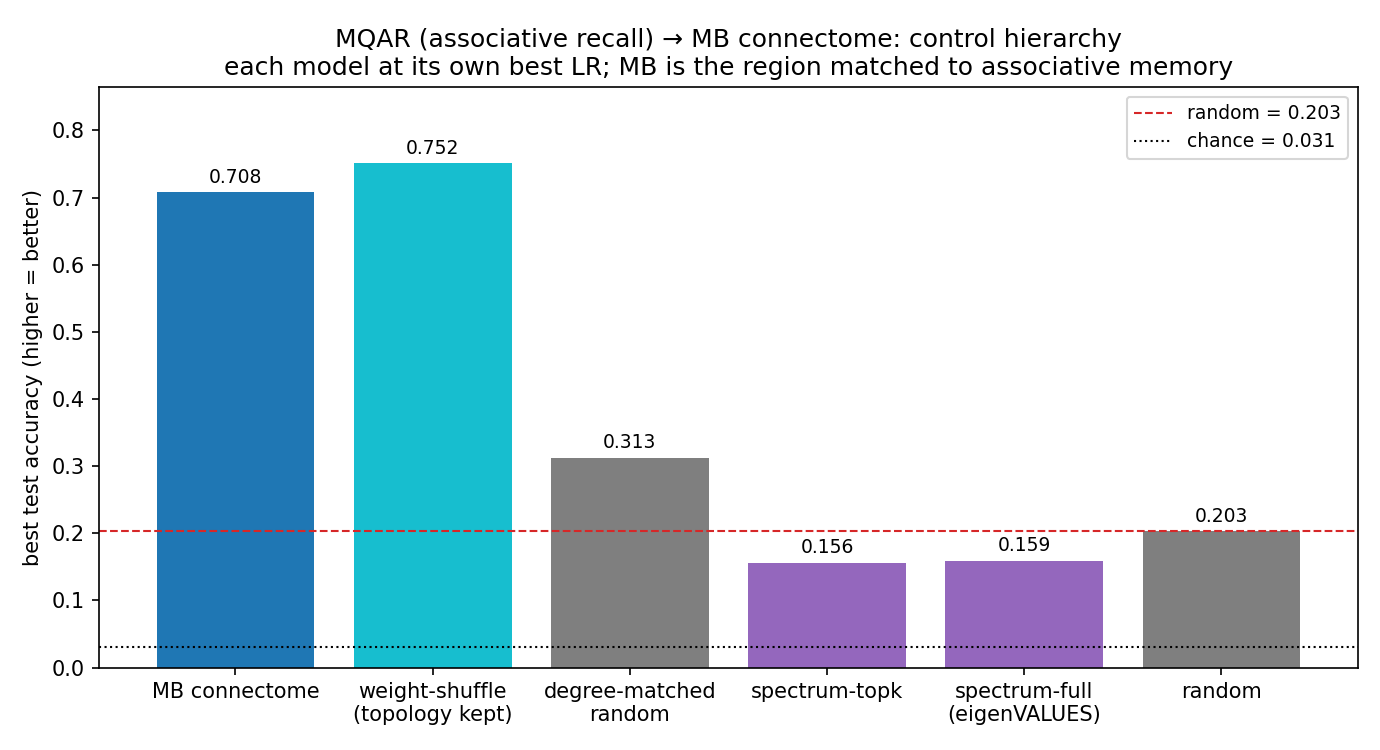
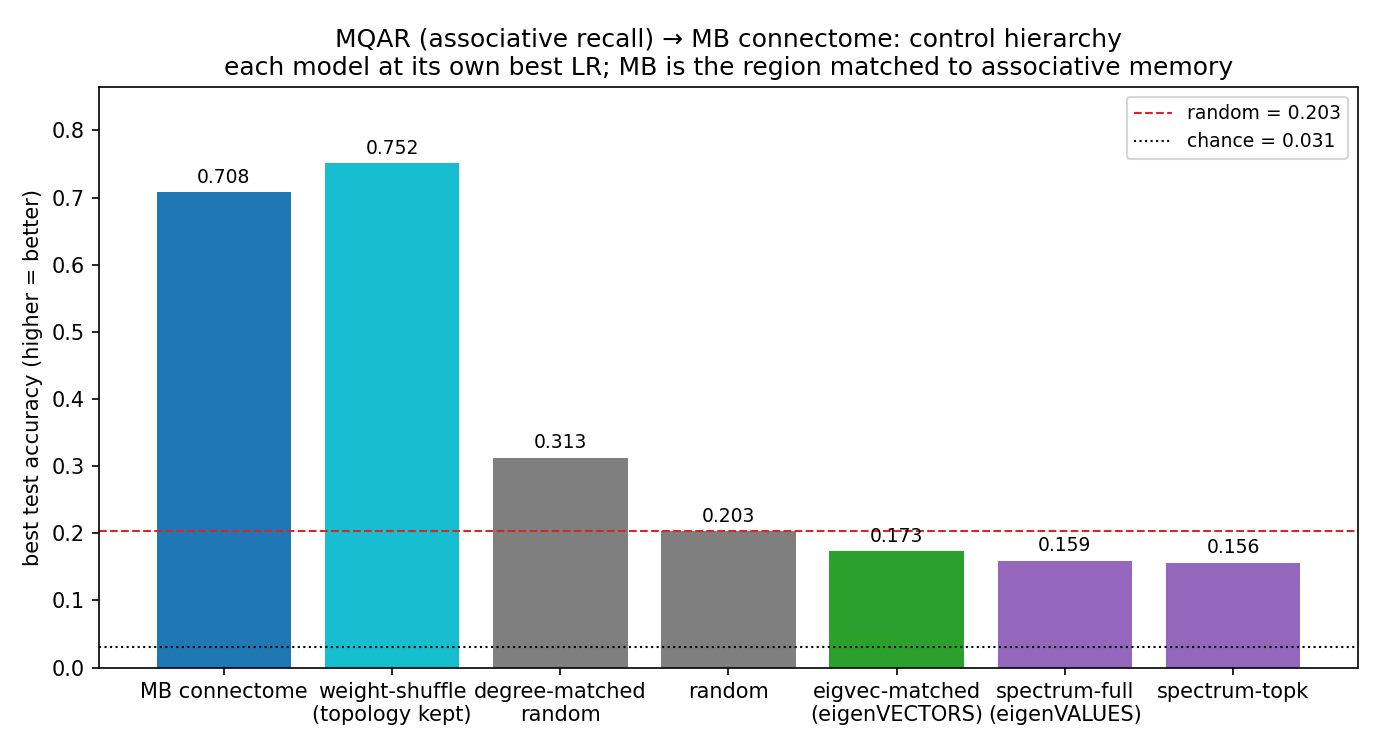
MB eigvec-matched result: eigenvectors do NOT help MQAR (the dynamics-vs-topology dissociation)
Ran the dense eigenvector control on the MB connectome (the missing cell). Result: eigvec_matched
0.173 -- BELOW random (0.203), just above the eigenvalue controls. The mirror image of CX:
  - eigenvectors LOSE to the connectome 4x (0.173 vs 0.708) -- but unfairly: connectome wins partly
    because it's SPARSE (keeps the graph); eigvec is dense and discards it.
  - density-matched (fair) comparison eigvec vs spectrum, both dense: 0.173 vs 0.159 -- eigenvectors
    edge eigenvalues by a hair, but BOTH below random -> neither dense surrogate works.
Completes the dissociation: CX (manifold task) -> eigenvectors help (dense helps); MQAR (sparse-graph
task) -> nothing dense helps, sparse topology is everything. Updates figure (7 models), summarizer,
and README (bottom-line + result table + fair-comparison section).

Changed region(s): [[0.0935, 0.184, 0.9659, 0.9813], [0.1246, 0.2147, 0.187, 0.2453]]

diff --git a/scripts/mqar/summarize_mqar_sweep.py b/scripts/mqar/summarize_mqar_sweep.py
@@ -14,20 +14,21 @@ import numpy as np
 import pandas as pd
 
 NICE = {"hemibrain_seeded": "MB connectome", "weight_shuffle": "weight-shuffle (topology kept)",
-        "degree_preserving_random": "degree-matched random", "random_sparse": "random",
+        "degree_preserving_random": "degree-matched random", "random_sparse": "random", "eigvec_matched": "eigvec-matched (eigenVECTORS)",
         "spectrum_full": "spectrum-full (eigenVALUES)", "spectrum_topk": "spectrum-topk"}
 WHAT = {"hemibrain_seeded": "the real MB wiring + weights", "weight_shuffle": "topology, weights shuffled",
-        "degree_preserving_random": "in/out degree sequence only", "random_sparse": "nothing (ER random)",
+        "degree_preserving_random": "in/out degree sequence only", "random_sparse": "nothing (ER random)", "eigvec_matched": "connectome eigenVECTORS, random eigenvalues (dense)",
         "spectrum_full": "connectome eigenVALUES, random eigenvectors",
         "spectrum_topk": "connectome top-k eigenVALUES"}
-ORDER = ["hemibrain_seeded", "weight_shuffle", "degree_preserving_random", "spectrum_topk",
-         "spectrum_full", "random_sparse"]
+ORDER = ["hemibrain_seeded", "weight_shuffle", "degree_preserving_random", "random_sparse",
+         "eigvec_matched", "spectrum_full", "spectrum_topk"]
 
 
 def main():
     p = argparse.ArgumentParser()
     p.add_argument("--results", nargs="+",
-                   default=["outputs/runs/hp_sweep/mb_mqar/results_shard*.csv"])
+                   default=["outputs/runs/hp_sweep/mb_mqar/results_shard*.csv",
+                            "outputs/runs/hp_sweep/mb_mqar_eigvec/results_shard*.csv"])
     a = p.parse_args()
     files = []
     for g in a.results:

diff --git a/scripts/figures/plot_mqar_spectrum_sweep.py b/scripts/figures/plot_mqar_spectrum_sweep.py
@@ -17,19 +17,20 @@ import matplotlib.pyplot as plt
 ROOT = Path(__file__).resolve().parents[2]
 OUT = ROOT / "docs" / "results" / "mqar_mb_spectrum"
 NICE = {"hemibrain_seeded": "MB connectome", "weight_shuffle": "weight-shuffle\n(topology kept)",
-        "degree_preserving_random": "degree-matched\nrandom", "random_sparse": "random",
+        "degree_preserving_random": "degree-matched\nrandom", "random_sparse": "random", "eigvec_matched": "eigvec-matched\n(eigenVECTORS)",
         "spectrum_full": "spectrum-full\n(eigenVALUES)", "spectrum_topk": "spectrum-topk"}
 COLOR = {"hemibrain_seeded": "#1f77b4", "weight_shuffle": "#17becf",
-         "degree_preserving_random": "#7f7f7f", "random_sparse": "#7f7f7f",
+         "degree_preserving_random": "#7f7f7f", "random_sparse": "#7f7f7f", "eigvec_matched": "#2ca02c",
          "spectrum_full": "#9467bd", "spectrum_topk": "#9467bd"}
-ORDER = ["hemibrain_seeded", "weight_shuffle", "degree_preserving_random", "spectrum_topk",
-         "spectrum_full", "random_sparse"]
+ORDER = ["hemibrain_seeded", "weight_shuffle", "degree_preserving_random", "random_sparse",
+         "eigvec_matched", "spectrum_full", "spectrum_topk"]
 
 
 def main():
     p = argparse.ArgumentParser()
     p.add_argument("--results", nargs="+",
-                   default=["outputs/runs/hp_sweep/mb_mqar/results_shard*.csv"])
+                   default=["outputs/runs/hp_sweep/mb_mqar/results_shard*.csv",
+                            "outputs/runs/hp_sweep/mb_mqar_eigvec/results_shard*.csv"])
     a = p.parse_args()
     files = []
     for g in a.results:

diff --git a/docs/results/mqar_mb_spectrum/README.md b/docs/results/mqar_mb_spectrum/README.md
@@ -11,14 +11,15 @@ one that matters is **topology**. Higher accuracy = better (chance = 0.03):
 | 🥈 | the real connectome | 0.71 | yes |
 | 🥉 | **degree** sequence only | 0.31 | partly |
 | 4 | sparse random | 0.20 | baseline |
-| 5 | **eigenVALUES** (dynamics) | 0.16 | **no — worse than random** |
-| — | **eigenVECTORS** (geometry) | *running now* | (predict: no — it's dense, throws away the graph) |
+| 5 | **eigenVECTORS** (geometry) | 0.17 | **no — below random** (dense → graph gone) |
+| 6 | **eigenVALUES** (dynamics) | 0.16 | **no — below random** |
 
-**So:** the connectome's **dynamics (eigenvalues) don't transfer** — they land *below* random. What
-associative recall needs is the **sparse wiring topology**: keep the graph and scramble the weights
-→ you still win; replace the graph with a dense surrogate → you fail. (The eigenvector control is the
-one cell still computing; it is dense, so it discards the sparse graph the MB needs — prediction is
-it won't help either.) Full breakdown below.
+**So:** **neither** half of a dense surrogate transfers here — eigenvectors (0.17) *and* eigenvalues
+(0.16) both land *below* random. What associative recall needs is the **sparse wiring topology**:
+keep the graph and scramble the weights → you still win (0.75); replace the graph with any **dense**
+matrix → you fail. (This is the **mirror image of CX**, where the dense eigenvector surrogate *won*:
+there the task is a low-dimensional manifold, so the eigenvectors are the computation; here the task
+is a sparse graph lookup, so making it dense destroys it.) Full breakdown below.
 
 ## TL;DR
 MQAR (multi-query associative recall) is the associative-memory task; the **mushroom body** is the
@@ -33,21 +34,24 @@ synaptic weights and not its eigenvalue spectrum**:
 - **Topology beyond degree is decisive.** connectome **0.708** ≫ degree-matched random **0.313** ≫
   ER random **0.203**. The degree sequence alone buys only ~+0.11 over random; the *specific
   connectivity graph* adds **+0.40** more.
-- **Eigenvalues hurt.** The spectrum surrogates sit **below** random (spectrum-full 0.159,
-  spectrum-topk 0.156 vs random 0.203) — matching the CX result that the connectome's eigenvalues,
-  with random eigenvectors, are an actively poor substrate.
+- **Neither dense surrogate helps — the spectrum *or* the eigenvectors.** Both sit **below** random:
+  `eigvec_matched` (connectome eigenVECTORS, dense) **0.173**, `spectrum_full`/`topk` (eigenVALUES)
+  **0.159/0.156**, vs random **0.203**. This is the **opposite of CX**: there the dense eigenvector
+  surrogate was the *best* model; here it's near the *bottom*, because a dense matrix — eigenvectors
+  or not — discards the sparse connectivity graph that associative recall actually runs on.
 
 ![control hierarchy](mqar_control_hierarchy.png)
 
-## Result (60 cells = 6 models × 5 LR × 2 seeds; test accuracy, higher = better; chance = 0.031)
+## Result (70 cells = 7 models × 5 LR × 2 seeds; test accuracy, higher = better; chance = 0.031)
 | model | preserves | best test_acc | per-seed (best LR) | vs random |
 |---|---|---|---|---|
 | weight-shuffle | topology, weights shuffled | **0.752** | 0.761 / 0.742 | +270% |
 | **MB connectome** | the real MB wiring + weights | **0.708** | 0.651 / 0.765 | +249% |
 | degree-matched random | in/out degree sequence only | 0.313 | 0.434 / 0.192 | +54% |
 | random (ER) | nothing | 0.203 | 0.200 / 0.206 | — |
-| spectrum-full | connectome eigenVALUES, random vectors | 0.159 | 0.157 / 0.161 | −22% |
-| spectrum-topk | connectome top-k eigenVALUES | 0.156 | 0.159 / 0.154 | −23% |
+| **eigvec-matched** | connectome eigenVECTORS, random λ (**dense**) | 0.173 | 0.173 / 0.174 | **−15%** |
+| spectrum-full | connectome eigenVALUES, random vectors (**dense**) | 0.159 | 0.157 / 0.161 | −22% |
+| spectrum-topk | connectome top-k eigenVALUES (**dense**) | 0.156 | 0.159 / 0.154 | −23% |
 
 ### Full LR sweep (mean over 2 seeds, test accuracy — higher = better; chance 0.031)
 | model | lr=3e-4 | lr=1e-3 | lr=3e-3 | lr=1e-2 | lr=3e-2 |
@@ -74,13 +78,24 @@ where the headline findings live:
 | connectome **vs** degree-matched | 0.708 vs 0.313 | **topology beyond degree is most of it** |
 | degree-matched **vs** random | 0.313 vs 0.203 | degree sequence alone buys a little |
 
-The two **spectrum** surrogates are **dense** (~196M trainable params, ~340× the sparse models), so
-their comparison is *not* density/parameter-matched. They are reported because they still **lose to
-sparse random despite far more capacity** — i.e. the connectome's eigenvalue structure is a poor
-associative-recall substrate even with a large parameter budget — but a dense_random control (as in
-[../cx_dense_trainable](../cx_dense_trainable)) would be needed to cleanly separate "dense hurts
-here" from "eigenvalues hurt." (In CX, density *helped*; in MQAR the dense surrogates are far worse,
-so the two tasks differ and that comparison is left as an explicit open control.)
+### Did eigenvectors beat the connectome (fairly)? — No, on both counts
+The **three dense surrogates** — `eigvec_matched` (eigenVECTORS), `spectrum_full`, `spectrum_topk`
+(eigenVALUES) — are dense (~196M params, ~340× the sparse models), so comparing them to the sparse
+connectome is **not** density-matched. On MQAR that confound cuts **against** them: *every* dense
+surrogate lands **below** sparse random (0.173 / 0.159 / 0.156 vs 0.203) despite far more capacity —
+i.e. **being dense is a *liability* here**, because it throws away the sparse graph the task runs on.
+
+| comparison | result | reading |
+|---|---|---|
+| eigvec **vs** connectome | 0.173 vs 0.708 | eigenvectors **lose 4×** — but *unfairly*: connectome wins partly because it's **sparse** (keeps the graph) |
+| eigvec **vs** spectrum (both **dense**, density-matched) | 0.173 vs 0.159 | the **fair** test: eigenvectors edge eigenvalues by a hair, **but both are below random** |
+
+So unlike CX (eigvec **beat** the connectome, helped by density), here eigvec **loses** to the
+connectome — and even the density-matched comparison shows the eigenvectors give only a sliver over
+the eigenvalues, with neither dense surrogate clearing random. A `dense_random` MQAR control (as in
+[../cx_dense_trainable](../cx_dense_trainable)) would pin "dense hurts here" exactly; the existing
+dense surrogates already show its direction. **In CX density helped; in MQAR it hurts — the tasks
+genuinely differ.**
 
 ## Interpretation
 - **Associative recall lives in the connectivity graph.** The MB's advantage on its region-matched
